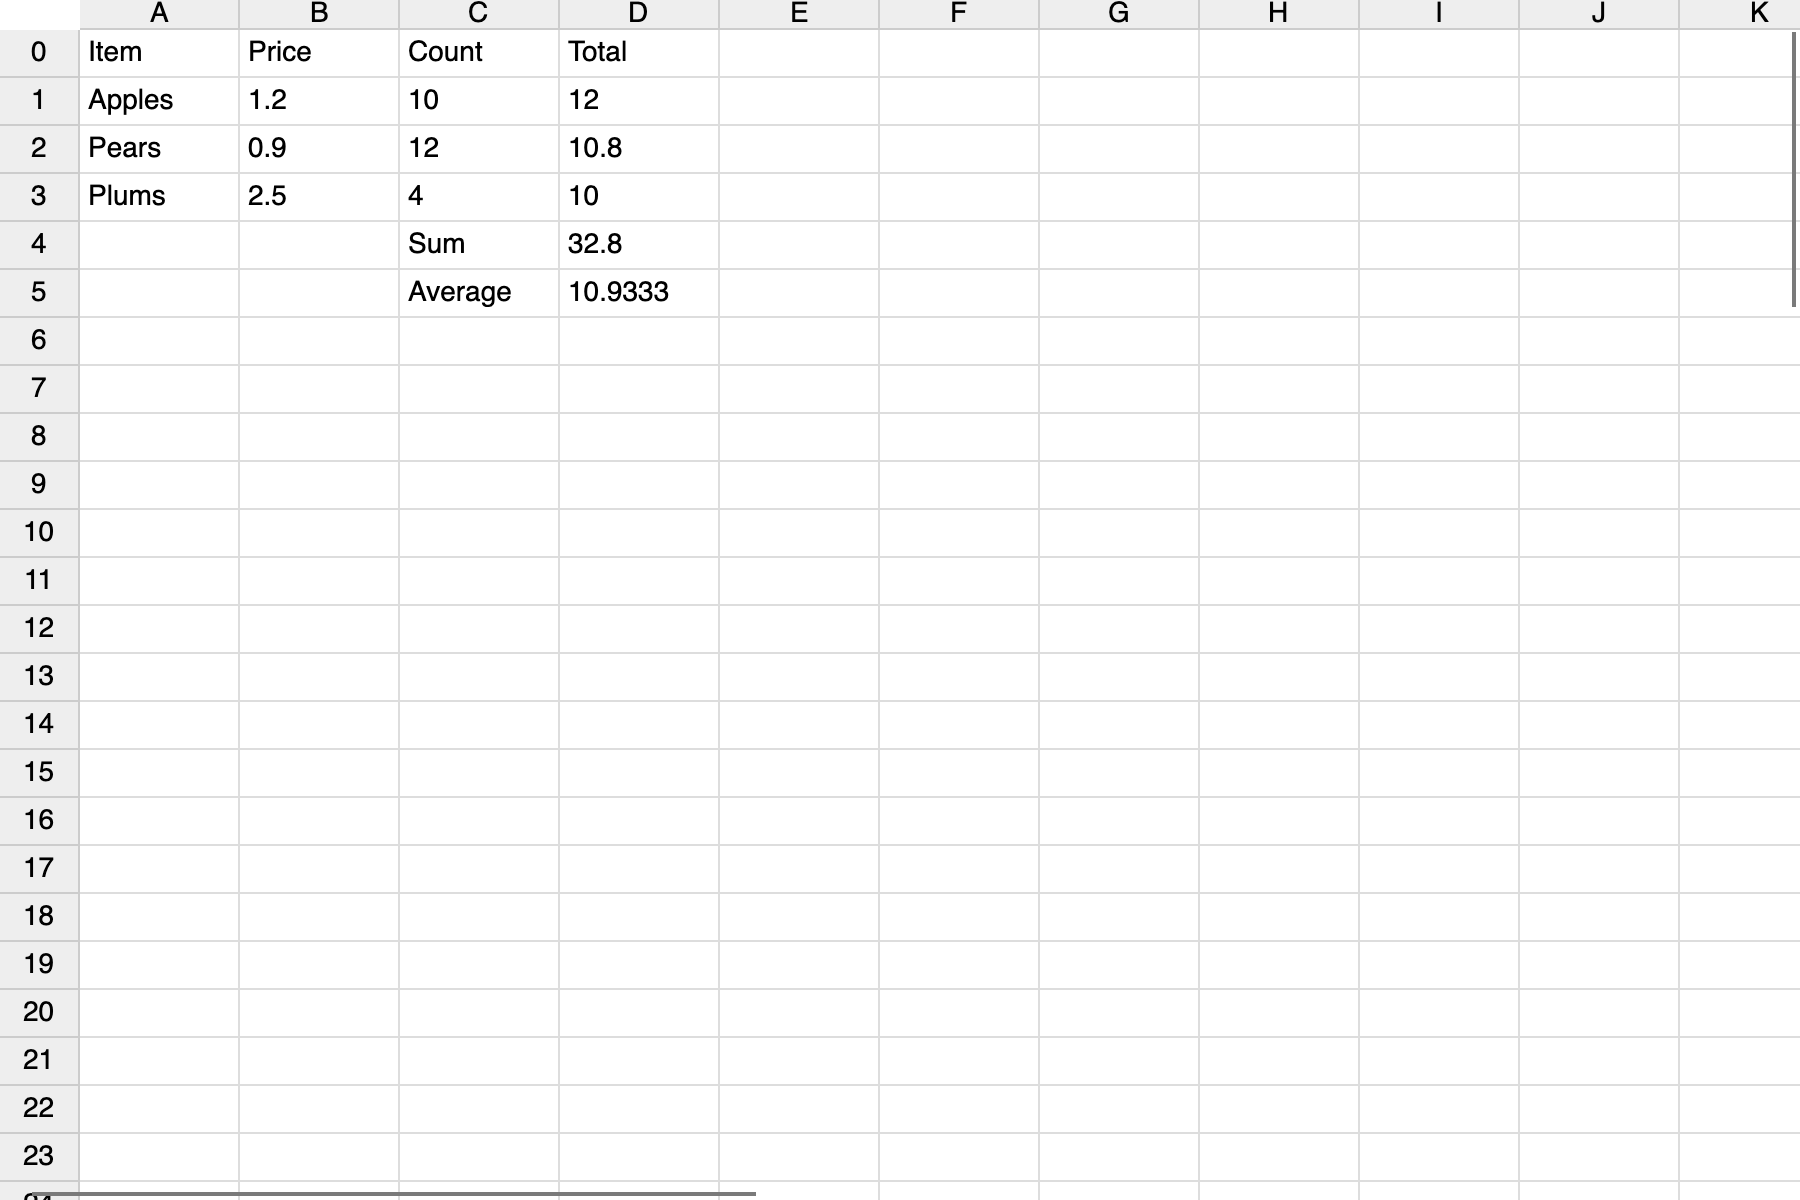
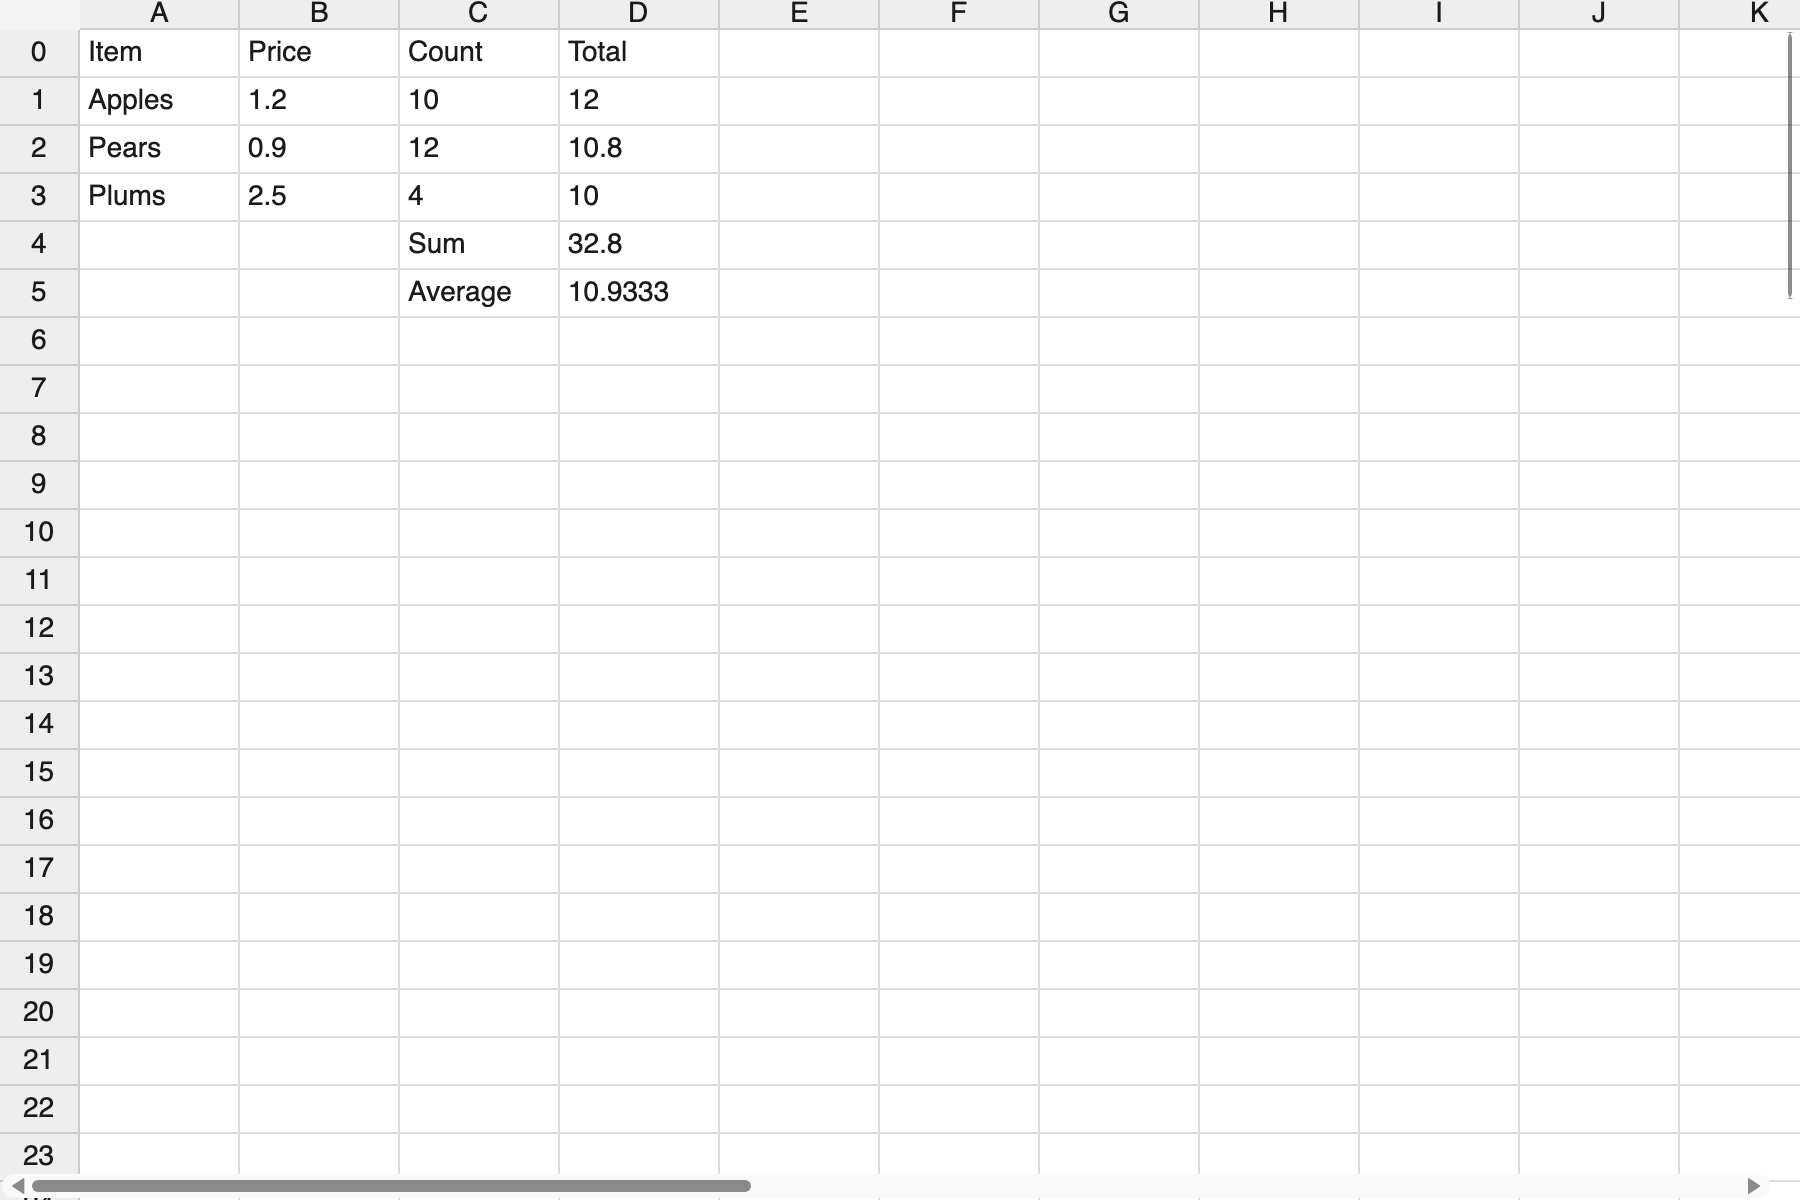
7GUIs in the WinUI 3 theme: launch_themed, and the screenshots taken again
ferroui-view: launch_themed takes the theme of the application (launch and
launch_with keep the Fluent theme). The window of the 7GUIs tasks
(seven_guis_model::run) uses the WinUI 3 theme of ferroui-themes-winui.

diff --git a/src/FerroUI.View/app.rs b/src/FerroUI.View/app.rs
@@ -6,7 +6,9 @@ use crate::reactive::Owner;
 use ferroui_base::Ref;
 use ferroui_controls::{AppBuilder, Application, Window, WindowBaseImpl};
 use ferroui_desktop::AppBuilderDesktopExtensions;
+use ferroui_base::styling::IStyle;
 use ferroui_themes_fluent::FluentTheme;
+use std::rc::Rc;
 
 /// Mounts `view` as a window under an owner that is disposed when the window
 /// closes. `view` builds a `window()`; any other control becomes the content
@@ -51,10 +53,21 @@ pub fn launch(view: impl FnOnce() -> crate::Element + 'static) {
 /// [`launch`], calling `started` with the main window before the main loop
 /// runs (to drive the window from code: a demonstration, screenshots).
 pub fn launch_with(view: impl FnOnce() -> crate::Element + 'static, started: impl FnOnce(&Ref<Window>) + 'static) {
+    launch_themed(|| FluentTheme::new().as_style(), view, started);
+}
+
+/// [`launch_with`] with the theme `theme` makes (the WinUI theme of
+/// `ferroui-themes-winui`, the simple theme, a theme of the application)
+/// instead of the Fluent theme.
+pub fn launch_themed(
+    theme: impl FnOnce() -> Rc<dyn IStyle> + 'static,
+    view: impl FnOnce() -> crate::Element + 'static,
+    started: impl FnOnce(&Ref<Window>) + 'static,
+) {
     let args: Vec<String> = std::env::args().skip(1).collect();
     AppBuilder::configure::<Application>().use_platform_detect().start(
         move |app, _| {
-            app.styles().add(FluentTheme::new().as_style());
+            app.styles().add(theme());
             let window = mount_window(view);
             smoke_exit(&window);
             started(&window);

diff --git a/samples/SevenGuis/Model/shots.rs b/samples/SevenGuis/Model/shots.rs
@@ -13,9 +13,11 @@ use std::path::{Path, PathBuf};
 use std::time::Duration;
 
 /// Runs the element of a task as the content of the main window, titled
-/// `title`, of `width` by `height`. `name` names its picture.
+/// `title`, of `width` by `height`, in the WinUI 3 theme. `name` names its
+/// picture.
 pub fn run(name: &'static str, title: &'static str, width: f64, height: f64, view: impl FnOnce() -> Element + 'static) {
-    launch_with(
+    launch_themed(
+        || ferroui_themes_winui::WinUITheme::new().as_style(),
         move || window().title(title).width(width).height(height).child(view()).into(),
         move |window| capture_if_asked(window, name),
     );

diff --git a/src/FerroUI.View/lib.rs b/src/FerroUI.View/lib.rs
@@ -58,7 +58,7 @@ pub use extras::GridDefinitions;
 pub use reactive::{batch, effect, memo, on_cleanup, signal, untrack, Memo, Owner, Signal, TwoWay};
 
 #[cfg(feature = "desktop")]
-pub use app::{launch, launch_with, mount_window, open_window};
+pub use app::{launch, launch_themed, launch_with, mount_window, open_window};
 
 pub use ferroui_view_macros::{component, rsx};
 
@@ -71,7 +71,7 @@ pub mod prelude {
         Signal, TwoWay,
     };
     #[cfg(feature = "desktop")]
-    pub use crate::{launch, launch_with, mount_window, open_window};
+    pub use crate::{launch, launch_themed, launch_with, mount_window, open_window};
 }
 
 #[cfg(test)]

diff --git a/docs/declarative-ui.md b/docs/declarative-ui.md
@@ -188,7 +188,7 @@ The seven tasks of 7GUIs (<https://eugenkiss.github.io/7guis/tasks>) are written
 | Circle drawer | `.../Builders/CircleDrawer` | `.../Macros/CircleDrawer` |
 | Cells | `.../Builders/Cells` | `.../Macros/Cells` |
 
-`samples/SevenGuis/Model` holds what the two share: the conversions, the dates, the CRUD filter, the circle history, the formulas of the cells (a parser and an evaluator; each cell is a memo of the cells it names, so a change is computed again only in the cells that depend on it, and a cycle is an error until it is broken), the reactive state of the circle drawer and of the cells, and the window a task runs in. `samples/SevenGuis/Tests` runs one scenario per task on each of the fourteen crates (what a user types and clicks, and what the task must show), in one test binary.
+`samples/SevenGuis/Model` holds what the two share: the conversions, the dates, the CRUD filter, the circle history, the formulas of the cells (a parser and an evaluator; each cell is a memo of the cells it names, so a change is computed again only in the cells that depend on it, and a cycle is an error until it is broken), the reactive state of the circle drawer and of the cells, and the window a task runs in (in the WinUI 3 theme of `ferroui-themes-winui`). `samples/SevenGuis/Tests` runs one scenario per task on each of the fourteen crates (what a user types and clicks, and what the task must show), in one test binary.
 
 The windows of the tasks, as each renders itself (`FERROUI_SEVEN_GUIS_SHOTS`); the two versions of a task render the same pixels:
 
